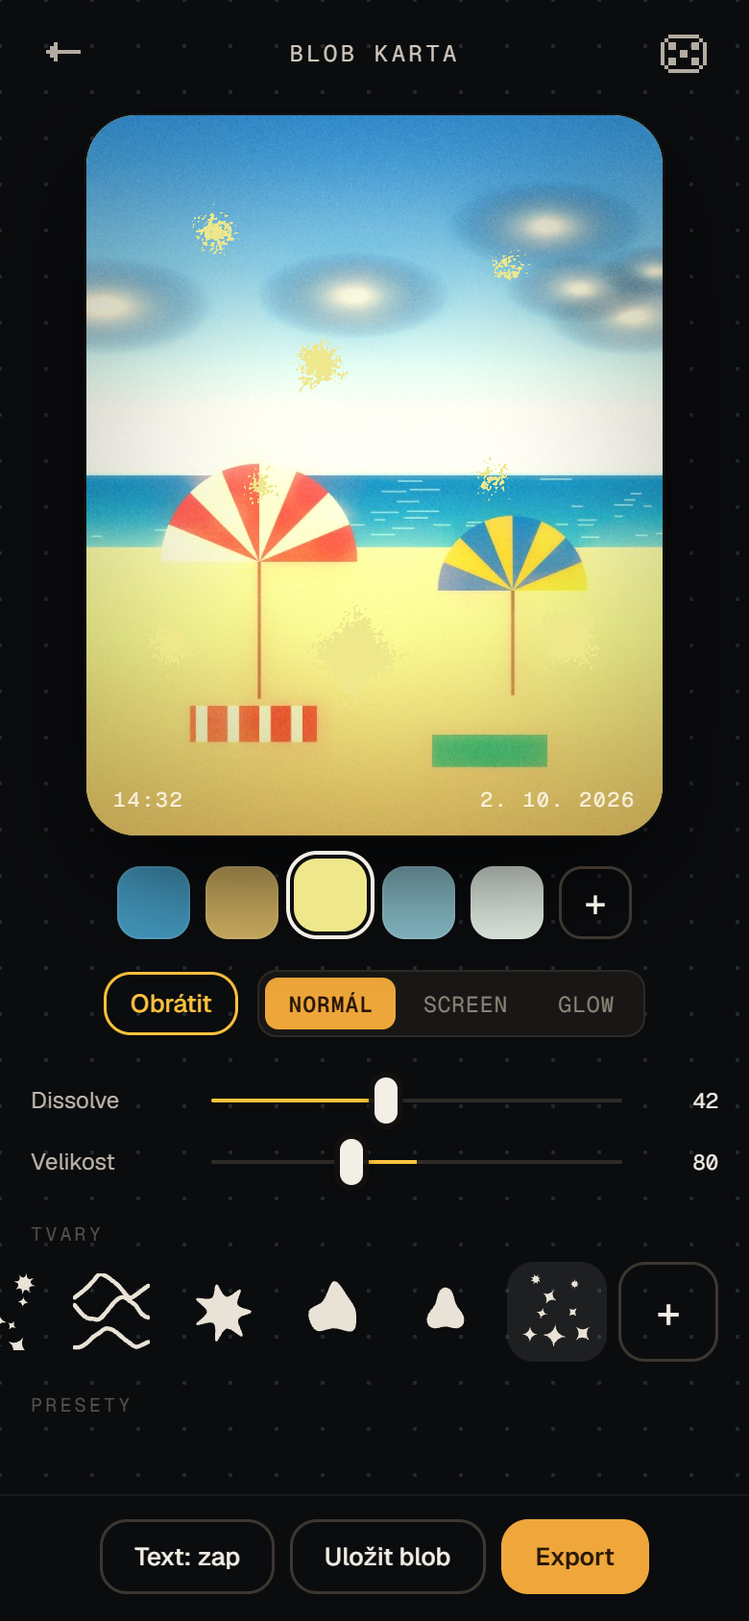
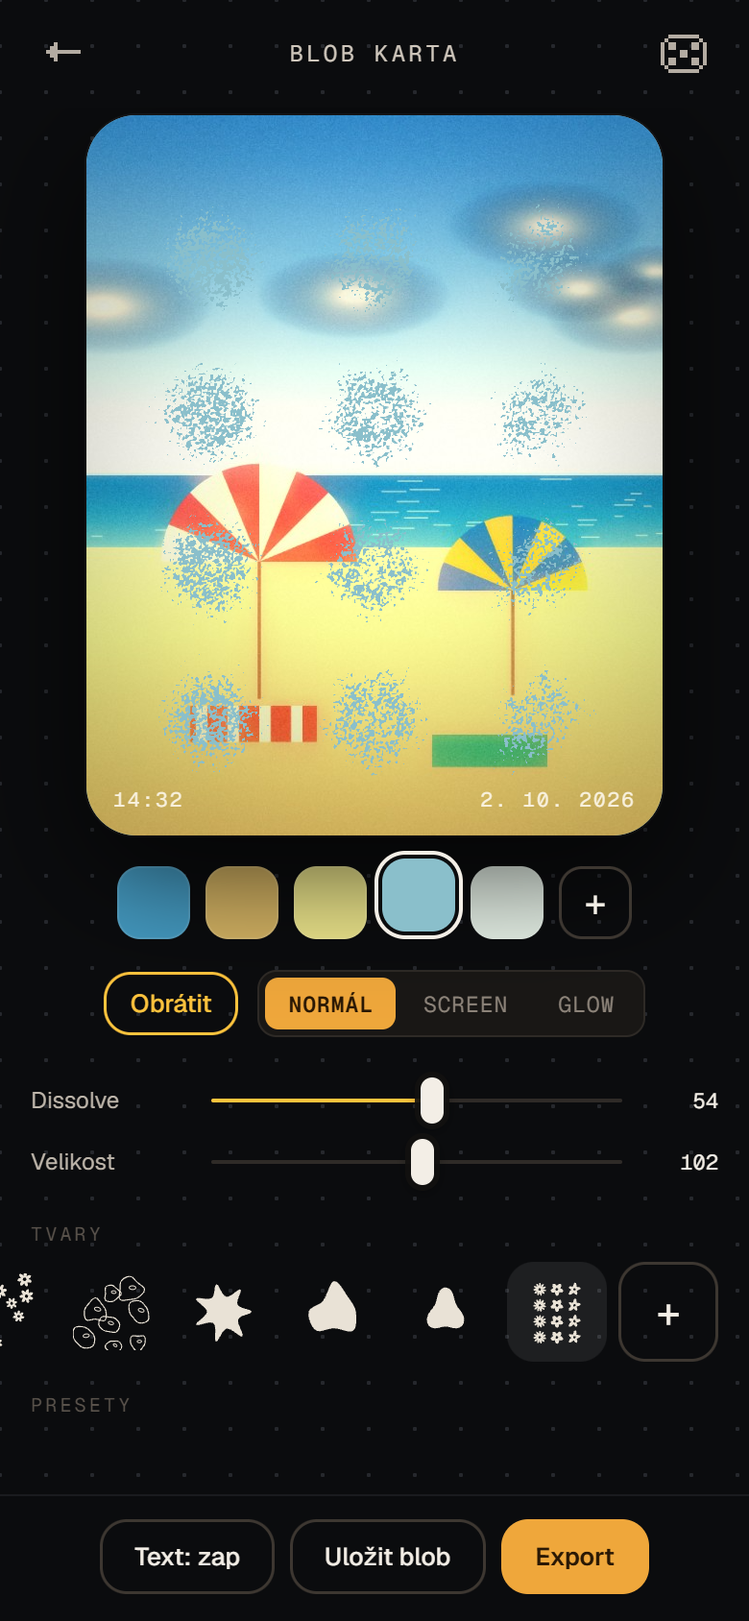
Náhled 0.9: PC Double / Blob karta / Recepty nativně, nové tvary blobu, kopírovat a vložit úpravy, oprava ořezu
- 10 nových tvarů podle blob inspo V2
- PC: Double v pravém panelu, Blob karta přes celé pracoviště, recepty v levém panelu, pevné umístění v mřížce
- kopírovat / vložit úpravy v galerii, editoru i na PC (i do víc fotek)
- ořez: posun podle poměru stran, správná rychlost tažení

diff --git a/docs/preview/index.html b/docs/preview/index.html
@@ -394,6 +394,8 @@ a{color:var(--amber)}
 .gpill{flex:none;height:26px;padding:0 10px;border-radius:9px;background:var(--panel);border:1px solid transparent;font-family:var(--f-mono);font-size:10.5px;color:var(--mute);letter-spacing:.04em}
 .gpill.on{color:var(--amber);border-color:rgba(255,196,61,.4);background:rgba(255,196,61,.07)}
 .ctx small{font-size:10.5px;color:var(--dim);white-space:nowrap;overflow:hidden;text-overflow:ellipsis}
+.ctx .cpy{display:flex;gap:6px}
+.ctx .cpy button{height:30px;padding:0 11px;border-radius:10px;border:1px solid var(--line);font-size:12px;color:#cfc7bc}
 .resetbtn{flex:none;height:26px;padding:0 10px;border-radius:9px;border:1px solid var(--line);font-size:11px;color:#cfc7bc;display:flex;align-items:center;gap:5px}
 .resetbtn .px{width:14px;height:14px}
 .chips{display:flex;gap:4px;overflow-x:auto;padding:2px 14px 4px}
@@ -610,6 +612,27 @@ body.pcapp .nav{display:none}
 @media (max-width:1100px){.pctop .brand{font-size:20px}.pctop{gap:10px}.pcghost{padding:0 9px}}
 @media (max-height:640px){.pc{grid-template-rows:46px minmax(0,1fr) 76px!important}}
 /* telefonní rozhraní v okně (Double, Blob karta, Recepty na PC) */
+.pctop{grid-row:1}.pcleft{grid-column:1;grid-row:2}.pccenter{grid-column:2;grid-row:2}.pcright{grid-column:3;grid-row:2}.pcstrip{grid-row:3}
+.pcblob{grid-column:2/4;grid-row:2/3;z-index:4;display:grid;grid-template-columns:minmax(0,1fr) clamp(300px,26vw,390px);min-height:0;background:#0B0C0E radial-gradient(circle,#26282D 1.2px,transparent 1.6px) 0 0/24px 24px}
+.pbc{display:grid;place-items:center;padding:28px;min-width:0;min-height:0}
+.pbc .bcard{width:auto!important;height:min(100%,780px);max-width:100%;max-height:100%}
+.pbr{display:flex;flex-direction:column;min-height:0;border-left:1px solid #1f1c19;background:rgba(13,12,11,.92)}
+.pbh{display:flex;align-items:center;gap:8px;padding:12px 14px;border-bottom:1px solid #1f1c19}
+.pbh b{font:500 11px var(--f-mono);letter-spacing:.16em;color:#cfc7bc;margin-right:auto}
+.pbs{flex:1;overflow-y:auto;display:flex;flex-direction:column;gap:16px;padding:16px 0}
+.pbs .shapes,.pbs .bpresets{flex-wrap:wrap;overflow:visible;padding-left:16px;padding-right:16px}
+.pbb{display:flex;gap:8px;justify-content:center;padding:12px;border-top:1px solid #1f1c19}
+.pbb .pbtn{white-space:nowrap}
+.pcdx{display:flex;gap:6px;overflow-x:auto;padding:2px 0 8px}
+.pcdx button{flex:none;width:44px;height:54px;border-radius:8px;overflow:hidden;border:2px solid transparent;padding:0}
+.pcdx button.on{border-color:var(--amber)}
+.pcdx img{width:100%;height:100%;object-fit:cover;display:block}
+.pcsw{display:flex;flex-wrap:wrap;gap:8px;margin:2px 0 10px}
+.pcrsave{display:grid;grid-template-columns:1fr auto;gap:6px;margin:0 0 8px}
+.pcrsave input{height:34px;border-radius:10px;border:1px solid var(--line);background:var(--panel);color:var(--fg);font:500 13px var(--f-mono);padding:0 10px;min-width:0}
+.pcrsave input:focus-visible{outline:0;border-color:var(--amber)}
+.pcrrow{display:grid;grid-template-columns:minmax(0,1fr) auto auto;align-items:center;gap:2px}
+.pcstrip img.sel{outline:2px solid #7fb4ff;outline-offset:2px;opacity:1}
 #pcPhoneBg{position:fixed;inset:0;z-index:55;background:rgba(8,7,6,.78);backdrop-filter:blur(10px)}
 #pcPhoneBg button{position:fixed;top:18px;right:22px;height:40px;padding:0 16px;border-radius:12px;background:var(--lcd);color:var(--lcd-ink);font-weight:600}
 body.pcphone .device{z-index:60}
@@ -620,6 +643,7 @@ body.pcapp .pcwrap{position:fixed;inset:0;width:auto;height:auto;transform:none!
 .pcib{width:34px;height:34px;border-radius:10px;display:grid;place-items:center;color:#cfc7bc}
 .pcib:hover,.pcghost:hover{background:#1c1a17}
 .pcib.on{color:var(--amber)}
+.pcghost.sm{height:30px;padding:0 10px;font-size:12px}
 .pcghost{height:34px;padding:0 12px;border-radius:10px;border:1px solid var(--line);font-size:12.5px;color:#d6cec3}
 .pctop .kbd{margin-left:auto}
 .pcadd{font:500 10.5px var(--f-mono);letter-spacing:.06em;color:var(--amber);padding:2px 6px;border-radius:6px}
@@ -675,7 +699,7 @@ body.pcapp .pcwrap{position:fixed;inset:0;width:auto;height:auto;transform:none!
 <body>
 <div class="shell" id="shell">
   <aside class="nav">
-    <div class="brand">QAMERA<small>Náhled 0.8</small></div>
+    <div class="brand">QAMERA<small>Náhled 0.9</small></div>
     <div>
       <div class="navlabel">Zobrazení</div>
       <div class="seg" id="viewSeg"><button class="on" data-v="m">MOBIL 390×844</button><button data-v="pc">PC 1440×900</button></div>
@@ -874,7 +898,7 @@ body.pcapp .pcwrap{position:fixed;inset:0;width:auto;height:auto;transform:none!
         <section class="scr pt" id="s-about" hidden>
           <div class="top"><button class="ib" data-back aria-label="Zpět" data-ic="back"></button><span class="title">O appce</span><span style="width:40px"></span></div>
           <div class="about">
-            <div class="hero"><div class="lens"><svg class="eyes" id="aboutEyes" viewBox="14 24 92 72"></svg></div><h2>QAMERA</h2><div class="ver">NÁHLED 0.8</div></div>
+            <div class="hero"><div class="lens"><svg class="eyes" id="aboutEyes" viewBox="14 24 92 72"></svg></div><h2>QAMERA</h2><div class="ver">NÁHLED 0.9</div></div>
             <div class="card"><h3>Poděkování</h3>
               <p><a href="https://github.com/thetechgeekko/Spektrafilm-android" target="_blank" rel="noopener">Spektrafilm for Android</a> by <b>Akshay Sharma</b></p>
               <p>Film modeling powered by <a href="https://github.com/andreavolpato/spektrafilm" target="_blank" rel="noopener">spektrafilm</a> (Andrea Volpato)</p>
@@ -906,11 +930,12 @@ body.pcapp .pcwrap{position:fixed;inset:0;width:auto;height:auto;transform:none!
     <div class="pcwrap" id="pcwrap" hidden>
       <div class="pc">
         <header class="pctop"><div class="brand">QAMERA</div><span class="file" id="pcFile"></span>
-          <div class="pctools"><button class="pcib" id="pcUndo" title="Zpět (Ctrl+Z)"></button><button class="pcib" id="pcRedo" title="Znovu (Ctrl+Shift+Z)"></button><button class="pcib" id="pcBefore" title="Před / po"></button></div>
+          <div class="pctools"><button class="pcghost sm" id="pcCopy" title="Kopírovat úpravy (Ctrl+Shift+C)">Kopírovat</button><button class="pcghost sm" id="pcPaste" title="Vložit úpravy (Ctrl+Shift+V) – na vybrané fotky v pásu (Ctrl+klik)">Vložit</button><button class="pcib" id="pcUndo" title="Zpět (Ctrl+Z)"></button><button class="pcib" id="pcRedo" title="Znovu (Ctrl+Shift+Z)"></button><button class="pcib" id="pcBefore" title="Před / po"></button></div>
           <div class="kbd"><span><kbd>\</kbd>před/po</span><span><kbd>C</kbd>ořez</span><span><kbd>←→</kbd>fotky</span><span><kbd>Del</kbd>smazat</span></div>
           <button class="pcghost" id="pcMobile" title="Mobilní náhled">Mobil</button><button class="pcghost" id="pcImport">Importovat</button><button class="pcghost" id="pcCube">Export .cube</button><button class="pbtn2" id="pcExport">Exportovat</button></header>
         <aside class="pcleft"><div class="pcsec"><h4>Filmy <button class="pcadd" id="pcScanBtn" title="Nový film z fotky (Film scan)">+ Nový</button></h4><div id="pcFilms"></div></div>
           <div class="pcsec"><h4>Recepty</h4><div id="pcPresets"></div></div></aside>
+        <section class="pcblob" id="pcBlobV" hidden><div class="pbc" id="pbCard"></div><div class="pbr"><div class="pbh" id="pbHead"><b>BLOB KARTA</b><button class="pcghost" id="pbClose">Zpět do editoru</button></div><div class="pbs" id="pbScroll"></div><div class="pbb" id="pbBar"></div></div></section>
         <section class="pccenter" id="pcCenter"><div class="ecanvas" id="pcWrap"><canvas id="pcGlow"></canvas><canvas id="pcCanvas"></canvas></div>
           <div class="croplayer" id="pcCrop" hidden><div class="cropbox" id="pcCropBox"></div></div>
           <div class="badge" id="pcBadge">PŘED</div>
@@ -2151,11 +2176,13 @@ function openActs(html, bind) { const a = $('#acts'); a.style.maxHeight = Math.r
 function closeActs() { $('#scrim').classList.remove('on'); if ($('#actSheet')._open) sheet($('#actSheet'), false); }
 const actBtn = (k, ic, l, cls = '') => `<button data-a="${k}" class="${cls}">${iconSVG(ic)}${l}</button>`;
 function photoActs(ph, el) {
-  openActs(`<h4><img src="${ph.thumb}" alt="">${ph.film} · ${ph.date.toLocaleDateString('cs-CZ')}</h4>${actBtn('edit', 'sliders', 'Upravit')}${actBtn('blob', 'blob', 'Blob karta')}${actBtn('dx', 'double', 'Double s jinou fotkou')}${actBtn('del', 'trash', 'Smazat', 'danger')}`, root => {
+  openActs(`<h4><img src="${ph.thumb}" alt="">${ph.film} · ${ph.date.toLocaleDateString('cs-CZ')}</h4>${actBtn('edit', 'sliders', 'Upravit')}${actBtn('blob', 'blob', 'Blob karta')}${actBtn('dx', 'double', 'Double s jinou fotkou')}${actBtn('copy', 'recipe', 'Kopírovat úpravy')}${CLIP ? actBtn('paste', 'sliders', 'Vložit úpravy') : ''}${actBtn('del', 'trash', 'Smazat', 'danger')}`, root => {
     $$('[data-a]', root).forEach(b => b.onclick = () => { closeActs(); const a = b.dataset.a;
       if (a === 'edit') openEditor(ph, el.querySelector('img'));
       if (a === 'blob') { S.blobFrom = ph; go('blob'); }
       if (a === 'dx') { openEditor(ph, el.querySelector('img')); setTimeout(() => { setTab('fx', true); openFx('double'); }, 450); }
+      if (a === 'copy') copyLook(ph.P);
+      if (a === 'paste' && pasteLook(ph)) { filterGallery(); toast('Úpravy vložené'); }
       if (a === 'del') deletePhoto(ph, el); });
   });
 }
@@ -2526,11 +2553,12 @@ function setTab(t, quiet) {
     requestAnimationFrame(() => { const on = $('.fthumb.on'), s = $('#fStrip'); if (on && s) s.scrollLeft = on.offsetLeft - s.clientWidth / 2 + on.offsetWidth / 2; });
   } else if (t === 'adj') {
     const a = ADJ.find(x => x.k === S.adjKey) || ADJ[0], dv = x => x.film ? (FILM[S.P.film] || FILM.P400).gl : (x.def || 0), vv = x => S.P[x.k] ?? dv(x);
-    const ctx = a.k === 'grain' ? `<div class="gt hs" id="gtRow">${grainPills()}</div>` : `<span></span>`;
+    const ctx = a.k === 'grain' ? `<div class="gt hs" id="gtRow">${grainPills()}</div>` : `<span class="cpy"><button id="lookCopy">Kopírovat</button><button id="lookPaste">Vložit</button></span>`;
     p.innerHTML = `<div class="ctx">${ctx}<button class="resetbtn" id="resetAll">${iconSVG('reset')}Vše</button></div><div class="ruler" id="adjR"></div><div class="chips" id="chipRow">${ADJ.map(x => `<button class="chip ${x.k === S.adjKey ? 'on' : ''} ${Math.abs(vv(x) - dv(x)) > .001 ? 'mod' : ''}" data-k="${x.k}">${iconSVG(x.ic)}${x.l}</button>`).join('')}</div>`;
     makeRuler($('#adjR'), { min: a.min, max: a.max, step: a.step, value: vv(a), label: a.l, fmt: a.f, def: dv(a), onInput: v => { S.P[a.k] = v; renderEd(); $(`.chip[data-k="${a.k}"]`).classList.toggle('mod', Math.abs(v - dv(a)) > .001); }, onEnd: commit });
     $$('.chip', p).forEach(b => b.onclick = () => { const sl = $('#chipRow').scrollLeft; S.adjKey = b.dataset.k; setTab('adj', true); $('#chipRow').scrollLeft = sl; });
-    $('#resetAll').onclick = resetAll; hscroll($('#chipRow')); if ($('#gtRow')) { hscroll($('#gtRow')); bindGrainPills($('#gtRow')); }
+    $('#resetAll').onclick = resetAll;
+    const lc = $('#lookCopy'); if (lc) { lc.onclick = () => copyLook(S.P); $('#lookPaste').onclick = () => { if (!pasteLook(S.cur)) return; S.P = JSON.parse(JSON.stringify(S.cur.P)); S.cur._last = JSON.parse(JSON.stringify(S.P)); dxChanged(); setTab('adj', true); toast('Úpravy vložené'); }; } hscroll($('#chipRow')); if ($('#gtRow')) { hscroll($('#gtRow')); bindGrainPills($('#gtRow')); }
   } else if (t === 'crop') {
     const ars = [['ORIG', 0], ['1:1', 1], ['4:5', .8], ['3:2', 1.5], ['16:9', 16 / 9], ['9:16', 9 / 16]];
     p.innerHTML = `<div style="height:16px"></div><div class="ruler" id="rotR"></div><div class="aspects" id="aspRow">${ars.map(([l, v]) => `<button data-a="${v}" class="${S.P.crop.ar === v ? 'on' : ''}">${l}</button>`).join('')}<button id="cropReset">RESET</button></div>`;
@@ -2705,7 +2733,10 @@ function placeCropBox() {
   const wrap = $('#eWrap'), box = $('#ePhoto'), cb = $('#cropBox'); const wr = wrap.getBoundingClientRect(), br = box.getBoundingClientRect(), sc = br.width / box.offsetWidth || 1;
   Object.assign(cb.style, { left: (wr.left - br.left) / sc + 'px', top: (wr.top - br.top) / sc + 'px', width: wr.width / sc + 'px', height: wr.height / sc + 'px' });
 }
-function fitCrop() { const c = S.P.crop, rot = Math.abs(c.rot) * Math.PI / 180; const need = Math.cos(rot) + Math.sin(rot) * 1.4; c.s = Math.max(c.s, need); const lim = .5 - .5 / c.s; c.x = clamp(c.x, -lim, lim); c.y = clamp(c.y, -lim, lim); }
+/* výřez v souřadnicích fotky: u poměru stran jiného než originál zbývá místo na posun (např. 1:1 z fotky na výšku → nahoru/dolů) */
+function cropCover(P = S.P, ph = S.cur) { const sAR = ph.src.width / ph.src.height, dAR = P.crop.ar || sAR; return dAR > sAR ? [1, sAR / dAR] : [dAR / sAR, 1]; }
+function fitCrop() { const c = S.P.crop, rot = Math.abs(c.rot) * Math.PI / 180; const need = Math.cos(rot) + Math.sin(rot) * 1.4; c.s = Math.max(c.s, need); const cv = cropCover();
+  const lx = Math.max(0, .5 - .5 * cv[0] * need / c.s), ly = Math.max(0, .5 - .5 * cv[1] * need / c.s); c.x = clamp(c.x, -lx, lx); c.y = clamp(c.y, -ly, ly); }
 function setBefore(on) { if (before === on) return; before = on; $('#beforeBadge').classList.toggle('show', on); renderEd(true); if (on) buzz(8); }
 function cropGestures() {
   const el = $('#ePhoto'), pts = new Map(); let base = null, holdT = 0;
@@ -2720,7 +2751,7 @@ function cropGestures() {
     const arr = [...pts.values()], c = S.P.crop, w = $('#eWrap').clientWidth, h = $('#eWrap').clientHeight;
     const cx = (arr[0].x + (arr[1] || arr[0]).x) / 2, cy = (arr[0].y + (arr[1] || arr[0]).y) / 2;
     if (arr[1] && base.d) c.s = clamp(base.s * Math.hypot(arr[0].x - arr[1].x, arr[0].y - arr[1].y) / base.d, 1, 5);
-    c.x = base.x - (cx - base.cx) / w / c.s; c.y = base.y + (cy - base.cy) / h / c.s; fitCrop(); renderEd(); });
+    const cv = cropCover(); c.x = base.x - (cx - base.cx) / w * cv[0] / c.s; c.y = base.y + (cy - base.cy) / h * cv[1] / c.s; fitCrop(); renderEd(); });
   const end = e => { clearTimeout(holdT); setBefore(false);
     if (pts.has(e.pointerId)) { pts.delete(e.pointerId); if (pts.size) startBase(); else commit(); } };
   el.addEventListener('pointerup', end); el.addEventListener('pointercancel', end);
@@ -2920,6 +2951,12 @@ function useDxOther(ph) { const cur = S.cur; S.dxReturn = null; $('#camBanner').
    Recepty: uložený vzhled (film + grain + úpravy), sdílení odkazem a QR
    ===================================================================== */
 let RECIPES = store.get('recipes', []);
+/* kopírovat / vložit úpravy mezi fotkami: všechno kromě ořezu a druhé fotky z Double */
+let CLIP = store.get('clip', null);
+const lookOf = P => { const r = JSON.parse(JSON.stringify(P)); delete r.crop; delete r.dx; return r; };
+function copyLook(P) { CLIP = lookOf(P); store.set('clip', CLIP); buzz(8); toast('Úpravy zkopírované, vlož je do jiné fotky'); }
+function pasteLook(ph) { if (!CLIP) { toast('Nejdřív zkopíruj úpravy z jiné fotky'); return false; }
+  ph.P = Object.assign(DEF(), JSON.parse(JSON.stringify(CLIP)), { crop: ph.P.crop, dx: ph.P.dx }); rethumb(ph); dbPut(ph); return true; }
 const recipeOf = P => { const r = JSON.parse(JSON.stringify(P)); delete r.crop; delete r.dx; delete r.tr; delete r.frame; return r; };
 const loadScript = src => new Promise((res, rej) => { const s = document.createElement('script'); s.src = src; s.onload = res; s.onerror = rej; document.head.appendChild(s); });
 function recipeActs() {
@@ -2948,7 +2985,9 @@ async function shareRecipe(r) {
 /* tvary podle inspirace: jednotlivé (blob, rozlitý rám, hvězda, jiskra, kytka, známka, měkký rám)
    i rozházené vzory (hvězdičky, puntíky, kytky, jiskry, vlnovky); kostka generuje náhodné */
 const SHAPES = [{ k: 'splat', s: 3 }, { k: 'blob', n: 5, a: .2, s: 9 }, { k: 'star', s: 2 }, { k: 'sparkle', s: 4 }, { k: 'flower', s: 5 }, { k: 'stamp' }, { k: 'soft' },
-  { k: 'stars', s: 11 }, { k: 'dots', s: 12 }, { k: 'flowers', s: 13 }, { k: 'sparkles', s: 14 }, { k: 'waves', s: 15 }, { k: 'blob', n: 7, a: .28, s: 1 }, { k: 'blob', n: 3, a: .3, s: 12 }];
+  { k: 'stars', s: 11 }, { k: 'dots', s: 12 }, { k: 'flowers', s: 13 }, { k: 'sparkles', s: 14 }, { k: 'waves', s: 15 },
+  { k: 'shoot', s: 21 }, { k: 'chain', s: 22 }, { k: 'beacons', s: 23 }, { k: 'stars3', s: 24 }, { k: 'snake', s: 25 }, { k: 'daisygrid', s: 26 }, { k: 'halfdaisy', s: 27 }, { k: 'outlineflowers', s: 28 }, { k: 'daisyfield', s: 29 }, { k: 'loops', s: 30 },
+  { k: 'blob', n: 7, a: .28, s: 1 }, { k: 'blob', n: 3, a: .3, s: 12 }];
 const f2 = v => v.toFixed(2);
 function smoothClosed(pts, t = .18) { const N = pts.length; let d = `M${f2(pts[0][0])} ${f2(pts[0][1])}`;
   for (let i = 0; i < N; i++) { const p0 = pts[(i - 1 + N) % N], p1 = pts[i], p2 = pts[(i + 1) % N], p3 = pts[(i + 2) % N];
@@ -2969,6 +3008,16 @@ const sparklePath = (cx, cy, R, n, rot) => { let d = ''; for (let i = 0; i < n; 
   if (!i) d += `M${f2(cx + Math.cos(a) * R)} ${f2(cy + Math.sin(a) * R)}`; d += `Q${f2(cx + Math.cos(a2) * R * .16)} ${f2(cy + Math.sin(a2) * R * .16)} ${f2(cx + Math.cos(an) * R)} ${f2(cy + Math.sin(an) * R)}`; } return d + 'Z'; };
 const circ = (x, y, r) => `M${f2(x - r)} ${f2(y)}a${f2(r)} ${f2(r)} 0 1 0 ${f2(2 * r)} 0a${f2(r)} ${f2(r)} 0 1 0 ${f2(-2 * r)} 0`;
 const flowerPath = (cx, cy, R, rot) => { let d = ''; for (let i = 0; i < 5; i++) { const a = rot + i * Math.PI * 2 / 5; d += circ(cx + Math.cos(a) * R * .55, cy + Math.sin(a) * R * .55, R * .47); } return d + circ(cx, cy, R * .4); };
+/* květ jedním obrysem (okvětní lístky z polární funkce) – jde do něj vyříznout střed (evenodd) */
+const petalPath = (cx, cy, R, n, rot, sharp = .8, depth = .5, wob = 0) => { const pts = [], N = Math.max(56, n * 12);
+  for (let i = 0; i < N; i++) { const a = i / N * Math.PI * 2, k = ((1 - depth) + depth * Math.pow(Math.abs(Math.cos(n * (a - rot) / 2)), sharp)) * (1 + wob * Math.sin(a * 2 + rot * 3)); pts.push([cx + Math.cos(a) * R * k, cy + Math.sin(a) * R * k]); }
+  return smoothClosed(pts, .16); };
+/* čtyřcípá jiskra s různě dlouhými cípy (fat = jak baculatá je uprostřed) */
+const sparkle4 = (cx, cy, L, rot, fat = .13) => { let d = ''; for (let i = 0; i < 4; i++) { const a = rot + i * Math.PI / 2 - Math.PI / 2, an = a + Math.PI / 2, am = a + Math.PI / 4, m = Math.min(L[i], L[(i + 1) % 4]) * fat;
+  if (!i) d += `M${f2(cx + Math.cos(a) * L[0])} ${f2(cy + Math.sin(a) * L[0])}`; d += `Q${f2(cx + Math.cos(am) * m)} ${f2(cy + Math.sin(am) * m)} ${f2(cx + Math.cos(an) * L[(i + 1) % 4])} ${f2(cy + Math.sin(an) * L[(i + 1) % 4])}`; } return d + 'Z'; };
+/* nepravidelná hvězda s kulatými cípy (padající hvězda) */
+const curvyStar = (cx, cy, tips, valley, sc = 1, rot = 0) => { const pts = []; tips.forEach(([deg, L], i) => { const nd = tips[(i + 1) % tips.length][0] + (i === tips.length - 1 ? 360 : 0), a = deg * Math.PI / 180 + rot, am = (deg + nd) / 2 * Math.PI / 180 + rot;
+  pts.push([cx + Math.cos(a) * L * sc, cy + Math.sin(a) * L * sc]); pts.push([cx + Math.cos(am) * valley * sc, cy + Math.sin(am) * valley * sc]); }); return smoothClosed(pts, .1); };
 function scatter(r, n, gap, rMin, rMax) { const out = []; let t = 0;
   while (out.length < n && t++ < n * 80) { const R = rMin + r() * (rMax - rMin), x = 4 + r() * 92, y = 4 + r() * 117; if (out.every(o => Math.hypot(o[0] - x, o[1] - y) > (o[2] + R) * gap)) out.push([x, y, R]); }
   return out; }
@@ -2986,6 +3035,21 @@ function shapeSvg(sh, fg, bg, fid = 'bsoft') {
     case 'dots': return scatter(r, 12, 1.6, 5.5, 8).map(([x, y, R]) => P(circ(x, y, R))).join('');
     case 'flowers': return scatter(r, 10, 1.25, 6, 12).map(([x, y, R]) => P(flowerPath(x, y, R, r() * 6))).join('');
     case 'sparkles': return scatter(r, 8, 1.05, 7, 19).map(([x, y, R]) => P(sparklePath(x, y, R, r() < .6 ? 4 : 8, r() * .8))).join('');
+    case 'shoot': { const T = [[-100, 34], [-28, 60], [38, 30], [112, 48], [172, 36]]; return `<path d="${curvyStar(46, 66, T, 15)}${curvyStar(50, 61, T, 15, .3, .15)}" fill="${fg}" fill-rule="evenodd"/>`; }
+    case 'chain': { let c = `<path d="${smoothOpen([[20, 62], [34, 70], [48, 74], [64, 68], [80, 57]])}" fill="none" stroke="${fg}" stroke-width="1.6" stroke-linecap="round"/>`;
+      [[20, 62, 12, .5], [48, 74, 14, -.2], [80, 57, 18, .35]].forEach(([x, y, R, rt]) => c += P(sparkle4(x, y, [R, R * .85, R * 1.1, R * .8], rt, .3))); return c; }
+    case 'beacons': return [[14, 64, 9], [31, 79, 7], [50, 30, 15], [69, 48, 10], [86, 94, 7]].map(([x, y, R]) => P(sparkle4(x, y, [R * 1.3, R, R * .5, R], (r() - .5) * .08, .1)) + `<rect x="${f2(x - .7)}" y="${f2(y)}" width="1.4" height="${f2(130 - y)}" fill="${fg}"/>`).join('');
+    case 'stars3': return [[24, 72, 13, -.32], [50, 60, 16, 0], [76, 72, 13, .32]].map(([x, y, R, rt]) => `<path d="${starPath(x, y, R, 5, .48, rt)}" fill="${fg}" stroke="${fg}" stroke-width="2.6" stroke-linejoin="round"/>`).join('');
+    case 'snake': return `<path d="${smoothOpen([[-6, 116], [12, 110], [28, 96], [24, 80], [34, 68], [54, 72], [66, 60], [62, 42], [70, 26], [84, 24], [90, 38], [86, 52], [96, 60], [108, 54]], .22)}" fill="none" stroke="${fg}" stroke-width="12" stroke-linecap="round" stroke-linejoin="round"/>`;
+    case 'daisygrid': { let c = ''; [22, 50, 78].forEach((x, ci) => [26, 52, 78, 104].forEach(y => { const R = 10.5;
+      const d = ci === 0 ? petalPath(x, y, R, 11, .2, .9, .5) + starPath(x, y, R * .24, 9, .6, 0) : ci === 1 ? petalPath(x, y, R, 5, .3, 1.4, .42) + circ(x, y, R * .22) : petalPath(x, y, R, 5, 1.1, 2.2, .5, .12) + circ(x + R * .05, y, R * .2);
+      c += `<path d="${d}" fill="${fg}" fill-rule="evenodd"/>`; })); return c; }
+    case 'halfdaisy': { const cx = 64, cy = 40; let c = ''; [98, 123, 148, 173, 198, 223].forEach((deg, i) => { const a = deg * Math.PI / 180, L = 46 - Math.abs(i - 2.5) * 3, W = 5.2, ux = Math.cos(a), uy = Math.sin(a), px = -uy, py = ux, s0 = 12, at = (t, w) => [cx + ux * (s0 + L * t) + px * W * w, cy + uy * (s0 + L * t) + py * W * w];
+      c += P(smoothClosed([at(0, .35), at(.45, 1), at(.85, .8), at(1, 0), at(.85, -.8), at(.45, -1), at(0, -.35)], .18)); });
+      return c + P(blobPath({ n: 3, a: .1, s: 8 }, cx, cy, 7.5)); }
+    case 'outlineflowers': return [[40, 44, 17, .2], [72, 68, 12, .9], [46, 92, 18, -.3]].map(([x, y, R, rt]) => `<path d="${petalPath(x, y, R, 5, rt, 1.3, .45)}" fill="none" stroke="${fg}" stroke-width="2.4"/><path d="${circ(x, y, R * .12)}" fill="none" stroke="${fg}" stroke-width="1.8"/>`).join('');
+    case 'daisyfield': return scatter(r, 9, 1.12, 9, 12.5).map(([x, y, R]) => `<path d="${petalPath(x, y, R, 7, r() * 6, 1.1, .5)}${circ(x, y, R * .24)}" fill="${fg}" fill-rule="evenodd"/>`).join('');
+    case 'loops': return scatter(r, 8, .85, 11, 19).map(([x, y, R], i) => { const ex = x + R * .2, ey = y - R * .15; return `<path d="${blobPath({ n: 2 + (i % 2), a: .2, s: (sh.s || 1) * 7 + i }, x, y, R)}" fill="none" stroke="${fg}" stroke-width="1.8"/><ellipse cx="${f2(ex)}" cy="${f2(ey)}" rx="${f2(R * .28)}" ry="${f2(R * .16)}" transform="rotate(${Math.round(r() * 80 - 40)} ${f2(ex)} ${f2(ey)})" fill="none" stroke="${fg}" stroke-width="1.6"/>`; }).join('');
     case 'waves': { let c = ''; const n = 3; for (let j = 0; j < n; j++) { const y0 = 18 + j * 42 + (r() - .5) * 10, ph = r() * 6, amp = 8 + r() * 10, pts = []; for (let x = -10; x <= 110; x += 10) pts.push([x, y0 + Math.sin(x * .065 + ph) * amp + (r() - .5) * 5]);
       c += `<path d="${smoothOpen(pts)}" fill="none" stroke="${fg}" stroke-width="7" stroke-linecap="round"/>`; } return c; }
   }
@@ -3037,7 +3101,7 @@ function selectShape(i) {
   drawBlob(); spring(.94, 1, v => $('#bCard').style.transform = `scale(${v})`, { k: 300, c: 16 });
 }
 function diceShape() { // kostka: jeden „náhodný“ slot, náhodný tvar i nastavení; líbí-li se, ulož ho jako preset
-  const kinds = ['blob', 'blob', 'splat', 'star', 'sparkle', 'flower', 'stars', 'dots', 'flowers', 'sparkles', 'waves'], rnd = a => a[Math.floor(Math.random() * a.length)];
+  const kinds = ['blob', 'blob', 'splat', 'star', 'sparkle', 'flower', 'stars', 'dots', 'flowers', 'sparkles', 'waves', 'shoot', 'chain', 'beacons', 'stars3', 'snake', 'daisygrid', 'halfdaisy', 'outlineflowers', 'daisyfield', 'loops'], rnd = a => a[Math.floor(Math.random() * a.length)];
   const sh = { k: rnd(kinds), s: 1 + Math.floor(Math.random() * 9999), n: 3 + Math.floor(Math.random() * 6), a: .1 + Math.random() * .25, rnd: true };
   let i = SHAPES.findIndex(x => x.rnd); if (i < 0) { SHAPES.push(sh); i = SHAPES.length - 1; } else SHAPES[i] = sh;
   Object.assign(B, { inv: Math.random() < .3, dis: Math.random() < .35 ? +(.15 + Math.random() * .45).toFixed(2) : 0, blend: rnd(['normal', 'normal', 'screen', 'glow']), size: +(.75 + Math.random() * .3).toFixed(2), bg: Math.floor(Math.random() * 5) });
@@ -3145,13 +3209,20 @@ function openPc() {
   const P = JSON.parse(JSON.stringify(S.P)); P.crop = DEF().crop; P.gtype = null;
   $$('.pcfilm[data-c]').forEach(b => { P.film = b.dataset.c; b.querySelector('canvas').getContext('2d').drawImage(utilRender(srcOf(S.cur, S.P), P, 88, 88, {}), 0, 0);
     b.onclick = () => { S.P.film = b.dataset.c; $$('.pcfilm[data-c]').forEach(x => x.classList.toggle('on', x === b)); commit(); renderPc(); buildPcRight(); }; });
-  $('#pcPresets').innerHTML = RECIPES.length ? RECIPES.map((r, i) => `<button class="pcfilm" data-r="${i}"><canvas width="88" height="88"></canvas><span><b>${r.name}</b><small>recept · ${r.P.film}</small></span></button>`).join('') : '<p style="font-size:12px;color:var(--mute);margin:4px 6px">Recepty uložíš v Efektech → Recepty.</p>';
+  $('#pcPresets').innerHTML = `<div class="pcrsave"><input id="pcRName" placeholder="Název receptu" maxlength="24" autocomplete="off"><button class="pcghost" id="pcRSave">Uložit</button></div>` + RECIPES.map((r, i) => `<div class="pcrrow"><button class="pcfilm" data-r="${i}"><canvas width="88" height="88"></canvas><span><b>${r.name}</b><small>${r.P.film}</small></span></button><button class="pcib" data-rl="${i}" title="Kopírovat odkaz na recept">${iconSVG('share')}</button><button class="pcib" data-rd="${i}" title="Smazat recept">${iconSVG('trash')}</button></div>`).join('');
   $$('#pcPresets [data-r]').forEach(b => { const r = RECIPES[+b.dataset.r]; b.querySelector('canvas').getContext('2d').drawImage(utilRender(srcOf(S.cur, S.P), Object.assign(DEF(), r.P), 88, 88, {}), 0, 0);
-    b.onclick = () => { S.P = Object.assign(DEF(), JSON.parse(JSON.stringify(r.P)), { crop: S.P.crop, dx: S.P.dx }); commit(); renderPc(); buildPcRight(); toast(`Recept ${r.name} použitý`); }; });
+    b.onclick = () => { S.P = Object.assign(DEF(), JSON.parse(JSON.stringify(r.P)), { crop: S.P.crop, dx: S.P.dx }); commit(); dxChanged(); buildPcRight(); toast(`Recept ${r.name} použitý`); }; });
+  $$('#pcPresets [data-rd]').forEach(b => b.onclick = () => { const i = +b.dataset.rd, r = RECIPES[i]; RECIPES.splice(i, 1); store.set('recipes', RECIPES); openPc(); toast(`Recept ${r.name} smazaný`, { label: 'Vrátit', fn: () => { RECIPES.splice(i, 0, r); store.set('recipes', RECIPES); openPc(); } }); });
+  $$('#pcPresets [data-rl]').forEach(b => b.onclick = async () => { const r = RECIPES[+b.dataset.rl], url = location.origin + location.pathname + '#recept=' + btoa(unescape(encodeURIComponent(JSON.stringify(r))));
+    try { await navigator.clipboard.writeText(url); toast('Odkaz na recept zkopírovaný'); } catch { toast('Odkaz se nepodařilo zkopírovat'); } });
+  $('#pcRSave').onclick = () => { const name = $('#pcRName').value.trim() || `Recept ${RECIPES.length + 1}`; RECIPES.unshift({ name, P: recipeOf(S.P) }); store.set('recipes', RECIPES); openPc(); toast(`Recept ${name} uložený`); };
   $('#pcStrip').innerHTML = `<button class="padd" id="pcAddTile" title="Importovat fotky">+</button>` + S.photos.map(p => `<img src="${p.thumb}" data-id="${p.id}" class="${p === S.cur ? 'on' : ''}" style="width:${Math.round(90 * clamp(phAr(p), .5, 2.2))}px" alt="">`).join('');
   $('#pcAddTile').onclick = () => $('#fileImport').click();
   const on = $('#pcStrip img.on'); if (on) requestAnimationFrame(() => on.scrollIntoView({ inline: 'nearest', block: 'nearest' }));
-  $$('#pcStrip img').forEach(im => im.onclick = () => pcSelect(S.photos.find(p => p.id === +im.dataset.id)));
+  S.pcSel = S.pcSel || new Set();
+  $$('#pcStrip img').forEach(im => { im.classList.toggle('sel', S.pcSel.has(+im.dataset.id)); im.onclick = e => { const id = +im.dataset.id;
+    if (e.ctrlKey || e.metaKey || e.shiftKey) { S.pcSel.has(id) ? S.pcSel.delete(id) : S.pcSel.add(id); im.classList.toggle('sel', S.pcSel.has(id)); return; }
+    S.pcSel.clear(); const ph = S.photos.find(p => p.id === id); if (BLOBPC) { S.cur = ph; S.P = JSON.parse(JSON.stringify(ph.P)); S.blobFrom = ph; openBlob(); openPc(); } else pcSelect(ph); }; });
   $('#pcFile').textContent = `${PHNAME[S.cur.kind] || 'fotka'} · ${S.cur.date.toLocaleDateString('cs-CZ')} · ${S.P.film}`;
   buildPcRight(); requestAnimationFrame(layoutPc);
 }
@@ -3188,7 +3259,8 @@ function buildPcRight() {
       <div class="seg" id="pcPal">${(P.style.type === 'dither' ? [['amber', 'AMBER'], ['lime', 'LIME'], ['paper', 'PAPÍR'], ['ir', 'NEON'], ['photo', 'Z FOTKY']] : [['photo4', 'STYL 1'], ['photo', 'STYL 2'], ['photo8', 'STYL 3']]).map(([q, l]) => `<button data-p="${q}" class="${P.style.pn === q ? 'on' : ''}">${l}</button>`).join('')}</div>
       <label class="srow"><span>${P.style.type === 'dither' ? 'Hustota' : 'Pixely'}</span><input type="range" id="pcCells" min="${P.style.type === 'dither' ? 80 : 40}" max="${P.style.type === 'dither' ? 420 : 220}" value="${P.style.cells}" data-def="${P.style.type === 'dither' ? 240 : 110}"><output>${P.style.cells}</output></label>${P.style.type === 'dither' ? `
       <label class="srow"><span>Úrovně</span><input type="range" id="pcLev" min="2" max="4" value="${P.style.levels}" data-def="2"><output>${P.style.levels}</output></label>` : ''}` : ''}</div>
-    <div class="pcsec"><h4>Další</h4><div class="row2"><button class="pcghost" id="pcDouble">Double${P.dx && P.dx.other ? ' ●' : ''}</button><button class="pcghost" id="pcBlob">Blob karta</button><button class="pcghost" id="pcRecipe">Recepty</button></div></div>`;
+    ${pcDoubleHtml(P)}
+    <div class="pcsec"><h4>Blob karta</h4><div class="row2"><button class="pcghost" id="pcBlob">Otevřít blob kartu</button></div></div>`;
   bindRanges($('#pcRight'), renderPc); bindGrainPills($('#pcGt'), buildPcRight); bindPcExtra();
   $('#pcReset').onclick = resetAll;
   curveEditor($('#pcCurve'), () => S.P.curve.rgb, pts => { S.P.curve.rgb = pts; renderPc(); }, commit, '#f3eee6');
@@ -3210,14 +3282,39 @@ function bindPcExtra() {
   $$('#pcSty button').forEach(b => b.onclick = () => { const t = b.dataset.t; P.style = !t ? null : t === 'dither' ? { type: 'dither', pal: ['#0B0C0E', '#F5C542'], pn: 'amber', cells: 240, levels: 2 } : { type: 'pixel', pal: photoPal(6), pn: 'photo', cells: 110 }; commit(); renderPc(); buildPcRight(); });
   pcRange('#pcCells', v => P.style.cells = v); pcRange('#pcLev', v => P.style.levels = v);
   $$('#pcPal button').forEach(b => b.onclick = () => { const q = b.dataset.p, st = P.style; st.pn = q; st.pal = st.type === 'dither' ? (q === 'photo' ? photoPal(2) : DPALS[q]) : photoPal(+q.replace('photo', '') || 6); commit(); renderPc(); buildPcRight(); });
-  $('#pcDouble').onclick = () => pcPhone(() => { openEditor(S.cur); setTimeout(() => { setTab('fx', true); openFx('double'); }, 420); });
-  $('#pcBlob').onclick = () => pcPhone(() => { S.blobFrom = S.cur; stack.length = 0; go('blob'); });
-  $('#pcRecipe').onclick = () => pcPhone(() => { openEditor(S.cur); setTimeout(() => { setTab('fx', true); recipeActs(); }, 420); });
+  $('#pcBlob').onclick = () => pcBlob(true); bindPcDouble();
 }
+/* PC: Double přímo v pravém panelu */
+function pcDoubleHtml(P) { const dx = P.dx, o = dx && S.photos.find(x => x.id === dx.other), sil = dx && dx.mode === 'sil', blend = dx && dx.mode === 'blend';
+  const pal = o ? [...new Set([DXBG, '#e33a22', '#F2EFE8', ...kmeansOf(S.cur.src, 2), ...kmeansOf(o.src, 2)])] : [];
+  return `<div class="pcsec"><h4>Double <span>${o ? 'zapnuto' : 'druhá fotka'}</span></h4><div class="pcdx" id="pcDxPick">${S.photos.filter(x => x !== S.cur && x.kind !== 'arch').slice(0, 30).map(x => `<button data-id="${x.id}" class="${o === x ? 'on' : ''}"><img src="${x.thumb}" alt=""></button>`).join('')}</div>${o ? `
+    <div class="seg" id="pcDxMode"><button data-m="blend" class="${blend ? 'on' : ''}">PROLNUTÍ</button><button data-m="sil" data-w="this" class="${sil && dx.who === 'this' ? 'on' : ''}">TVAR TÉTO</button><button data-m="sil" data-w="other" class="${sil && dx.who === 'other' ? 'on' : ''}">TVAR DRUHÉ</button></div>
+    ${sil ? `<div class="pcsw" id="pcDxBg">${pal.map(c => `<button class="sw2 ${c === dx.bg ? 'on' : ''}" data-c="${c}" style="background:${c}"></button>`).join('')}<label class="sw2" style="display:grid;place-items:center;color:var(--mute)">+<input type="color" id="pcDxColor" value="#e33a22"></label><button class="sw2" id="pcDxInv" title="Obrátit" style="display:grid;place-items:center;color:var(--fg)">⇄</button></div>` : ''}
+    <label class="srow"><span>${blend ? 'Síla' : 'Práh'}</span><input type="range" id="pcDxSl" min="${blend ? 10 : 5}" max="${blend ? 100 : 95}" value="${Math.round((blend ? dx.mix : dx.th) * 100)}" data-def="${blend ? 60 : 42}"><output>${Math.round((blend ? dx.mix : dx.th) * 100)}</output></label>
+    <div class="row2"><button class="pcghost" id="pcDxOff">Vypnout double</button></div>` : ''}</div>`; }
+function bindPcDouble() { const P = S.P, re = () => { dxChanged(); commit(); buildPcRight(); };
+  $$('#pcDxPick [data-id]').forEach(b => b.onclick = () => { P.dx = P.dx || { other: null, mode: 'sil', who: 'this', th: .42, inv: false, bg: DXBG, mix: .6 }; P.dx.other = +b.dataset.id; re(); });
+  $$('#pcDxMode button').forEach(b => b.onclick = () => { P.dx.mode = b.dataset.m; if (b.dataset.w) P.dx.who = b.dataset.w; re(); });
+  $$('#pcDxBg [data-c]').forEach(b => b.onclick = () => { P.dx.bg = b.dataset.c; re(); });
+  const ci = $('#pcDxColor'); if (ci) ci.onchange = () => { P.dx.bg = ci.value; re(); };
+  const iv = $('#pcDxInv'); if (iv) iv.onclick = () => { P.dx.inv = !P.dx.inv; re(); };
+  const sl = $('#pcDxSl'); if (sl) { paintRange(sl); sl.oninput = () => { sl.nextElementSibling.textContent = sl.value; paintRange(sl); if (P.dx.mode === 'blend') P.dx.mix = sl.value / 100; else P.dx.th = sl.value / 100; dxChanged(); }; sl.onchange = commit; }
+  const off = $('#pcDxOff'); if (off) off.onclick = () => { P.dx = null; re(); };
+  hscroll($('#pcDxPick')); }
+/* PC: Blob karta přes střed a pravý panel – stejné ovládací prvky jako v mobilu, jen se přesunou */
+let BLOBPC = false;
+function pcBlob(open) { const card = $('#bCard'), sc = $('#s-blob .bscroll'), bar = $('#s-blob .bbar'), top = $('#s-blob .top'), rand = $('#bRand');
+  if (open && !BLOBPC) { S.blobFrom = S.cur; openBlob(); $('#pbCard').appendChild(card); [...sc.children].forEach(ch => $('#pbScroll').appendChild(ch)); [...bar.children].forEach(ch => $('#pbBar').appendChild(ch)); $('#pbHead').insertBefore(rand, $('#pbClose'));
+    $('#pcBlobV').hidden = false; BLOBPC = true; }
+  else if (!open && BLOBPC) { sc.appendChild(card); [...$('#pbScroll').children].forEach(ch => sc.appendChild(ch)); [...$('#pbBar').children].forEach(ch => bar.appendChild(ch)); top.appendChild(rand);
+    $('#pcBlobV').hidden = true; BLOBPC = false; } }
 /* na PC se Double, Blob karta a Recepty otevřou v telefonním rozhraní v okně (stejné ovládání jako v mobilu) */
 function pcPhone(fn) { document.body.classList.add('pcphone'); $('#pcPhoneBg').hidden = false; $('#device').hidden = false; fit(); fn(); }
 function pcPhoneClose() { document.body.classList.remove('pcphone'); $('#pcPhoneBg').hidden = true; $('#device').hidden = true; closeSheets(); closeActs && closeActs();
   if (S.cur) { S.P = JSON.parse(JSON.stringify(S.cur.P)); pcE.setSource(srcOf(S.cur, S.P)); } openPc(); }
+function pcPaste() { if (!CLIP) return toast('Nejdřív zkopíruj úpravy (Kopírovat)'); const ids = S.pcSel && S.pcSel.size ? [...S.pcSel] : [S.cur.id]; let n = 0;
+  ids.forEach(id => { const ph = S.photos.find(p => p.id === id); if (ph && pasteLook(ph)) n++; }); S.pcSel && S.pcSel.clear();
+  S.P = JSON.parse(JSON.stringify(S.cur.P)); S.cur._last = JSON.parse(JSON.stringify(S.P)); pcE.setSource(srcOf(S.cur, S.P)); openPc(); toast(n > 1 ? `Úpravy vložené do ${n} fotek` : 'Úpravy vložené'); }
 function pcDelete() { const ph = S.cur; if (!ph) return; const i = S.photos.indexOf(ph); S.photos.splice(i, 1); if (ph.saved) dbDel(ph.id); S.cur = S.photos[Math.min(i, S.photos.length - 1)] || null;
   if (S.cur) pcSelect(S.cur); toast('Fotka smazaná', { label: 'Vrátit', fn: () => { S.photos.splice(i, 0, ph); dbPut(ph); pcSelect(ph); } }); }
 /* film scan na PC: reference z galerie nebo z disku, náhled na otevřené fotce */
@@ -3245,11 +3342,12 @@ function initPcApp() {
   const bf = $('#pcBefore'); bf.onpointerdown = () => { pcBefore = true; bf.classList.add('on'); $('#pcBadge').classList.add('show'); renderPc(); };
   bf.onpointerup = bf.onpointerleave = () => { if (!pcBefore) return; pcBefore = false; bf.classList.remove('on'); $('#pcBadge').classList.remove('show'); renderPc(); };
   $('#pcMobile').onclick = () => { document.body.classList.remove('pcapp'); setView('m'); };
-  $('#pcScanBtn').onclick = pcScanOpen; $('#pcPhoneClose').onclick = pcPhoneClose;
+  $('#pcScanBtn').onclick = pcScanOpen; $('#pcPhoneClose').onclick = pcPhoneClose; $('#pbClose').onclick = () => pcBlob(false);
+  $('#pcCopy').onclick = () => copyLook(S.P); $('#pcPaste').onclick = pcPaste;
   // ořez tažením a kolečkem (C)
   const cen = $('#pcCenter'); let drag = null;
   cen.addEventListener('pointerdown', e => { if ($('#pcCrop').hidden || e.target.closest('.pcmodal')) return; cen.setPointerCapture(e.pointerId); drag = { x: e.clientX, y: e.clientY, cx: S.P.crop.x, cy: S.P.crop.y }; });
-  cen.addEventListener('pointermove', e => { if (!drag) return; const w = $('#pcWrap').clientWidth, h = $('#pcWrap').clientHeight; S.P.crop.x = drag.cx - (e.clientX - drag.x) / w / S.P.crop.s; S.P.crop.y = drag.cy + (e.clientY - drag.y) / h / S.P.crop.s; fitCrop(); renderPc(); });
+  cen.addEventListener('pointermove', e => { if (!drag) return; const w = $('#pcWrap').clientWidth, h = $('#pcWrap').clientHeight; const cv = cropCover(); S.P.crop.x = drag.cx - (e.clientX - drag.x) / w * cv[0] / S.P.crop.s; S.P.crop.y = drag.cy + (e.clientY - drag.y) / h * cv[1] / S.P.crop.s; fitCrop(); renderPc(); });
   cen.addEventListener('pointerup', () => { if (drag) { drag = null; commit(); } });
   cen.addEventListener('wheel', e => { if ($('#pcCrop').hidden) return; e.preventDefault(); S.P.crop.s = clamp(S.P.crop.s * (1 - e.deltaY * .001), 1, 4); fitCrop(); renderPc(); clearTimeout(cen._w); cen._w = setTimeout(() => { commit(); buildPcRight(); }, 300); }, { passive: false });
   // přetažení fotek do okna
@@ -3453,12 +3551,15 @@ function boot2(h) {
   // PC klávesy
   addEventListener('keydown', e => {
     if (e.target.isContentEditable || (e.target.tagName === 'INPUT' && e.target.type !== 'range')) return;
+    if ((e.ctrlKey || e.metaKey) && e.shiftKey && S.view === 'pc' && e.key.toLowerCase() === 'c') { e.preventDefault(); copyLook(S.P); return; }
+    if ((e.ctrlKey || e.metaKey) && e.shiftKey && S.view === 'pc' && e.key.toLowerCase() === 'v') { e.preventDefault(); pcPaste(); return; }
     if ((e.ctrlKey || e.metaKey) && e.key.toLowerCase() === 'z') { e.preventDefault(); if (!S.cur) return; e.shiftKey ? redo() : undo(); return; }
     if (S.view !== 'pc') return;
     if (e.key === '\\') { pcBefore = true; $('#pcBadge').classList.add('show'); renderPc(); }
     if (e.key.toLowerCase() === 'c') { $('#pcCrop').hidden = !$('#pcCrop').hidden; $('#pcCenter').classList.toggle('cropping', !$('#pcCrop').hidden); }
     if ((e.key === 'Delete' || e.key === 'Backspace') && $('#pcScan').hidden) { e.preventDefault(); pcDelete(); return; }
     if (e.key === 'Escape' && document.body.classList.contains('pcphone')) { pcPhoneClose(); return; }
+    if (BLOBPC) { if (e.key === 'Escape') pcBlob(false); return; }
     if (document.body.classList.contains('pcphone')) return;
     if (e.key === 'Escape') { $('#pcScan').hidden = true; $('#pcCrop').hidden = true; $('#pcCenter').classList.remove('cropping'); }
     if (e.key === 'ArrowRight' || e.key === 'ArrowLeft') { const i = S.photos.indexOf(S.cur) + (e.key === 'ArrowRight' ? 1 : -1); pcSelect(S.photos[clamp(i, 0, S.photos.length - 1)]); }

diff --git a/sw.js b/sw.js
@@ -1,5 +1,5 @@
 /* Qamera service worker – appka funguje i offline. Po větší změně zvýšit VERSION, ať se telefonům stáhne nová verze. */
-const VERSION = 'qamera-0.8.2';
+const VERSION = 'qamera-0.9.0';
 const SHELL = ['./', './docs/preview/', './docs/preview/index.html', './manifest.webmanifest', './icons/icon.svg', './icons/icon-192.png', './icons/apple-touch-icon.png', './luts/films.json'];
 
 self.addEventListener('install', e => {
